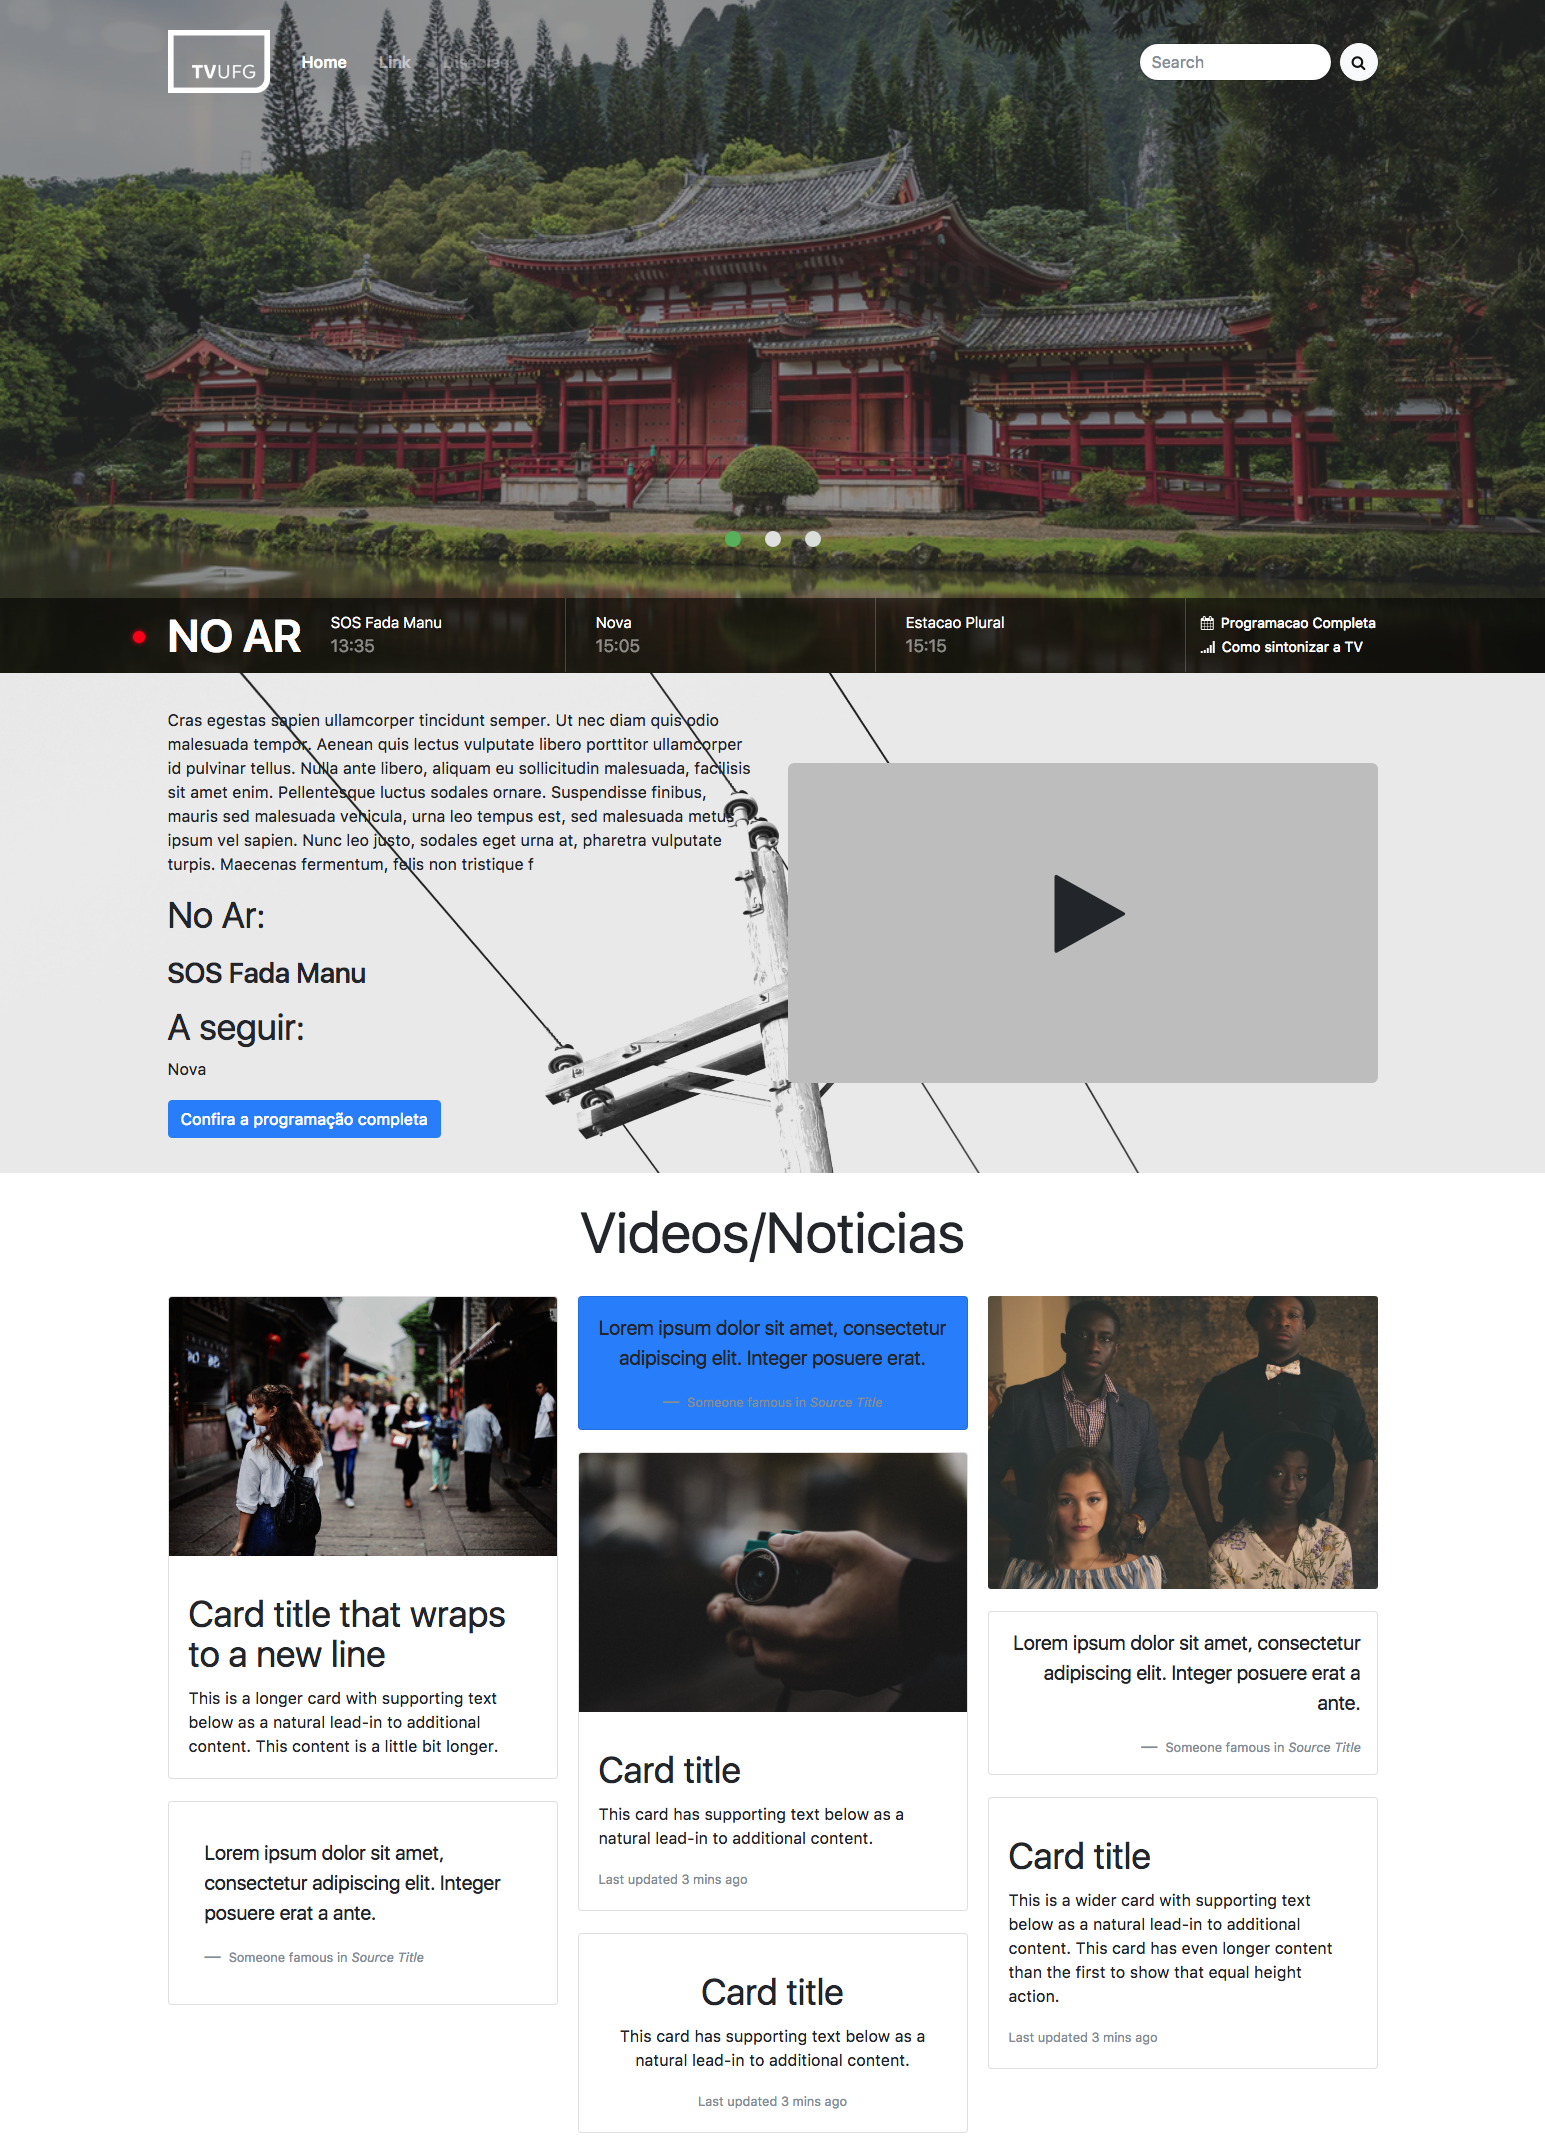
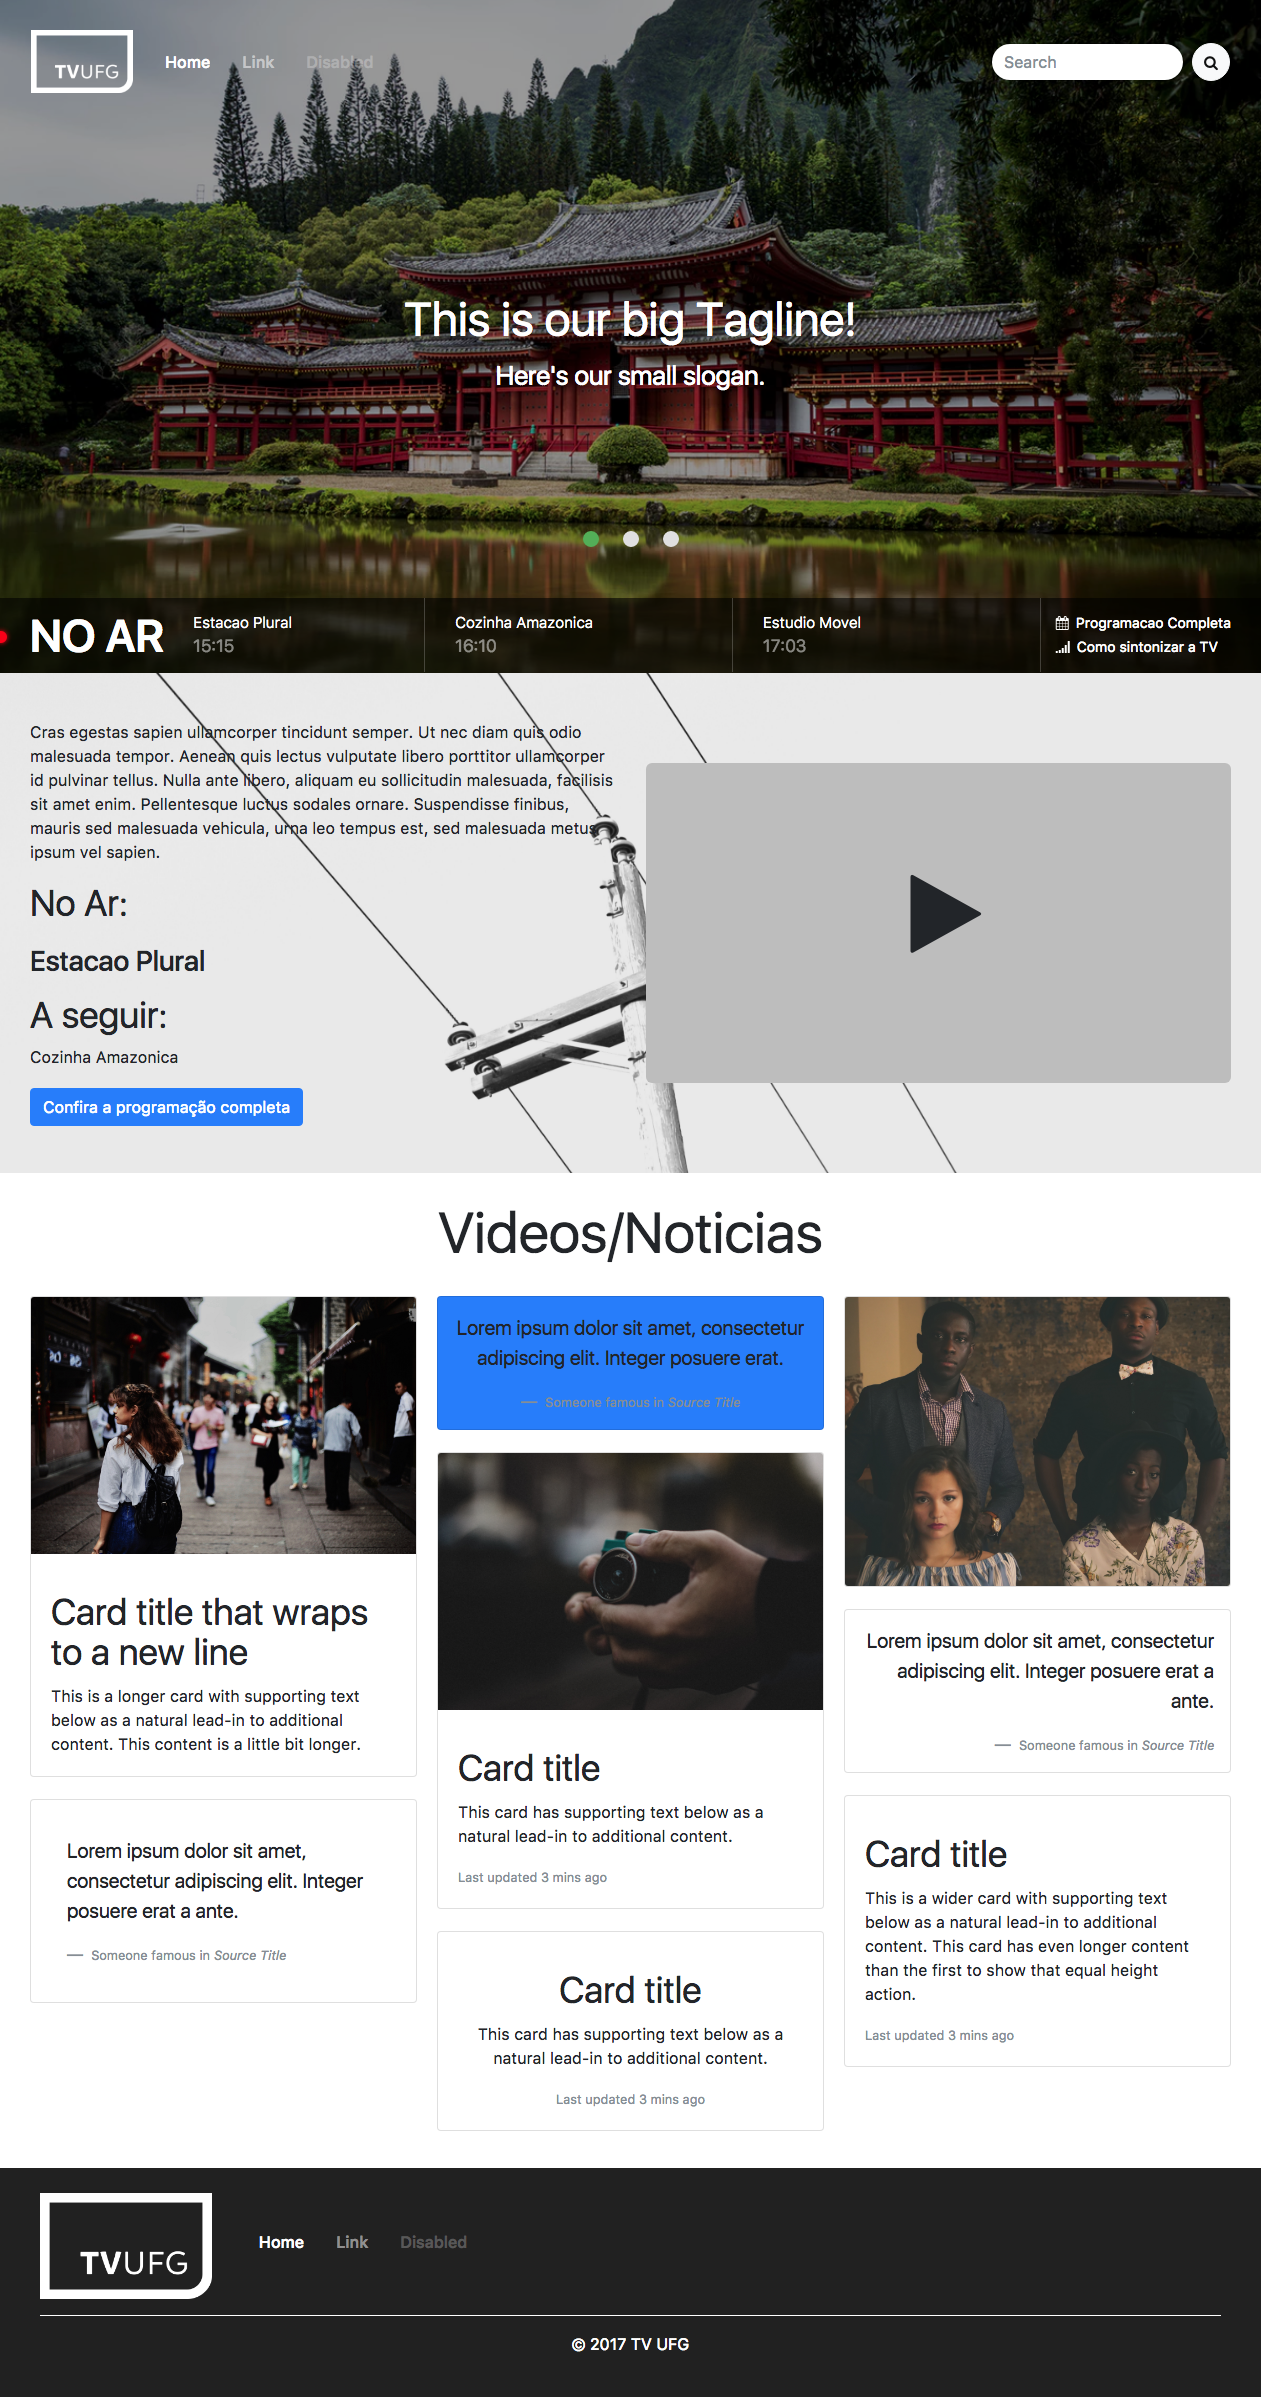
Adicionado exemplo de rodapé

diff --git a/index.php b/index.php
@@ -201,6 +201,35 @@
       </div>
     </div>
 
+    <footer class="footer" style="background-color: #212121; padding: 25px 25px; margin-top: 25px;">
+      <div class="container">
+        <div class="row">
+          <div class="col-md-2">
+            <img class="img-fluid" src="assets/img/logomark-white.png" alt="TV UFG">
+          </div>
+          <div class="col-md-6 navbar navbar-dark" style="padding-top: 0px;">
+            <ul class="navbar-nav mr-auto" style="flex-direction: unset !important;">
+              <li class="nav-item active">
+                <a class="nav-link" href="#">Home <span class="sr-only">(current)</span></a>
+              </li>
+              <li class="nav-item">
+                <a class="nav-link" href="#">Link</a>
+              </li>
+              <li class="nav-item">
+                <a class="nav-link disabled" href="#">Disabled</a>
+              </li>
+            </ul>
+          </div>
+        </div>
+        <hr style="border-top: 1px solid rgba(255, 255, 255, 1)"/>
+        <div class="row">
+          <div class="col-md-12">
+            <p style="color: white; text-align: center;">&copy; 2017 TV UFG</p>
+          </div>
+        </div>
+      </div>
+    </footer>
+
     <!-- Optional JavaScript -->
     <!-- jQuery first, then Popper.js, then Bootstrap JS -->
     <script src="assets/js/jquery-3.2.1.min.js"></script>
